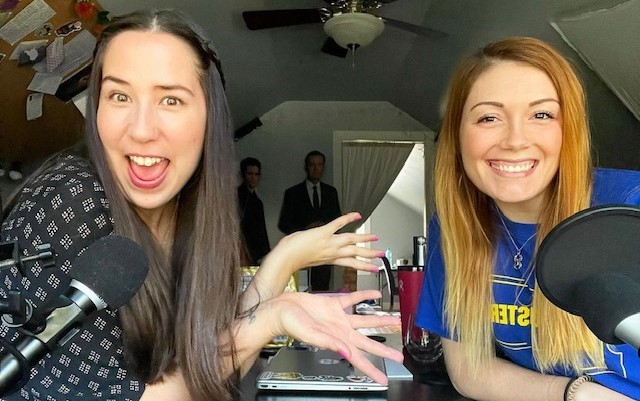
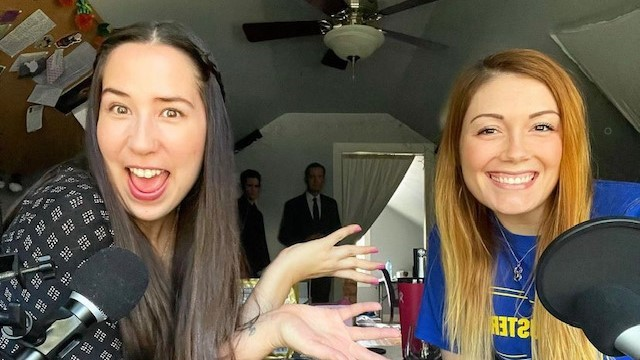
swapped images in slideshow, cleaned up sizing

diff --git a/public/assets/css/main.css b/public/assets/css/main.css
@@ -3551,7 +3551,7 @@ input, select, textarea {
 	}
 
 	.bioImage {
-		height: 300px;
+		height: 400px;
 		
 	}
 
@@ -3571,6 +3571,7 @@ input, select, textarea {
 
 	.slideshow {
 		width: 101%;
+		height: 150px;
 		overflow: hidden;
 		position: relative;
 
@@ -3578,35 +3579,47 @@ input, select, textarea {
 
 	.slideshow-wrapper {
 		display: flex;
-		width: 500%;
+		width: 1100%;
 		height: 100%;
 		position: relative;
-		animation: slideshow 20s infinite;
+		animation: slideshow 40s infinite;
 	}
 
 	.slide {
 		width: 100%;
-		height: 100%;
+		height: 150px;
 	}
 
 	.slide img {
 		width: 100%;
-		height: 100%;
+		height: 175px;
 		object-fit: cover;
 	}
 
 	@keyframes slideshow {
 		0%  { left: 0; }
-		12%  { left: 0; }
-		20% { left: -100%; }
-		32% { left: -100%; }
-		40% { left: -200%; }
-		52% { left: -200%; }
-		60% { left: -300%; }
-		72% { left: -300%; }
-		80% { left: -400%; }
-		92% { left: -400%; }
-		100% { left: 0%; }
+		4.5%  { left: 0%; }
+		9% { left: -100%; }
+		13.5% { left: -100%; }
+		18% { left: -200%; }
+		22.5% { left: -200%; }
+		27% { left: -300%; }
+		31.5% { left: -300%; }
+		36% { left: -400%; }
+		40.5% { left: -400%; }
+		45% { left: -500%; }
+		49.5% { left: -500%; }
+		54%  { left: -600%; }
+		58.5%  { left: -600%; }
+		63% { left: -700%; }
+		67.5% { left: -700%; }
+		72% { left: -800%; }
+		76.5% { left: -800%; }
+		81% { left: -900%; }
+		85.5% { left: -900%; }
+		90% { left: -1000%; }
+		94.5% { left: -1000%; }
+		100% { left: 0; }
 	}
 
 
@@ -3886,6 +3899,18 @@ input, select, textarea {
 			width: 75%;
 		}
 
+		.slideshow {
+			height: 550px; 
+		}
+
+		.slide {
+			height: 600px;
+		}
+
+		.slide img {
+			height: inherit;
+		}
+
 
 
 	}
@@ -3901,10 +3926,36 @@ input, select, textarea {
 			height: 475px
 		}
 
+		.slideshow {
+			height: 475px; 
+		}
+
+		.slide {
+			height: 475px;
+		}
+
+		.slide img {
+			height: inherit;
+		}
+
 	}
+
+
 	@media screen and (min-width: 1281px) and (max-width: 1679px){
 		#homeCaro {
 			height: 400px;
+		}
+
+		.slideshow {
+			height: 400px; 
+		}
+
+		.slide {
+			height: 450px;
+		}
+
+		.slide img {
+			height: inherit;
 		}
 	}
 
@@ -3915,7 +3966,19 @@ input, select, textarea {
 		}
 
 		#homeCaro {
-			height: 380px; 
+			height: 400px; 
+		}
+
+		.slideshow {
+			height: 400px;
+		}
+
+		.slide {
+			height: 400px;
+		}
+
+		.slide img {
+			height: inherit;
 		}
 
 
@@ -3928,7 +3991,19 @@ input, select, textarea {
 
 	@media screen and (min-width: 981px) and (max-width: 1279px){
 		#homeCaro {
-			height: 300px;
+			height: 400px;
+		}
+
+		.slideshow {
+			height: 400px;
+		}
+
+		.slide {
+			height: 400px;
+		}
+
+		.slide img {
+			height: inherit;
 		}
 	}
 
@@ -3942,9 +4017,23 @@ input, select, textarea {
 			height: 300px;
 		}
 
+		.slideshow {
+			height: 300px;
+		}
+
+		.slide {
+			height: 300px;
+		}
+
+		.slide img {
+			height: inherit;
+		}
+
 		#logo {
 			height: 250px;
 		}
+
+		
 
 	}
 
@@ -3955,8 +4044,21 @@ input, select, textarea {
 		}
 
 		#homeCaro {
-			height: 275px;
+			height: 300px;
 			width: 90%;
+		}
+
+		.slideshow {
+			height: 300px;
+		}
+
+		.slide {
+			height: 300px;
+		}
+
+
+		.slide img {
+			height: inherit;
 		}
 
 		#logo {
@@ -4104,8 +4206,20 @@ input, select, textarea {
 		}
 
 		#homeCaro {
-			height: 220px;
+			height: 300px;
 			width: 90%;
+		}
+
+		.slideshow {
+			height: 300px;
+		}
+
+		.slide {
+			height: 300px;
+		}
+
+		.slide img {
+			height: inherit;
 		}
 
 		#logo {
@@ -4256,6 +4370,18 @@ input, select, textarea {
 		#homeCaro {
 			height: 175px;
 			width: 90%;
+		}
+
+		.slideshow {
+			height: 200px;
+		}
+		
+		.slide {
+			height: 200px;
+		}
+
+		.slide img {
+			height: inherit;
 		}
 
 
@@ -4411,7 +4537,7 @@ input, select, textarea {
 		}
 
 		#homeCaro {
-			height: 100px;
+			height: 200px;
 			width: 90%;
 		}
 
@@ -4422,6 +4548,17 @@ input, select, textarea {
 			margin-top: 10%;
 			margin-bottom: 5%;
 		}
+
+		.slideshow {
+			height: 200px;
+		}
+		
+
+		.slide img {
+			height: 200px;
+		}
+
+		
 
 		.episode-listener-container {
 			border-radius: .5%;
@@ -4561,7 +4698,7 @@ input, select, textarea {
 
 	@media screen and (min-width: 375px) and (max-width: 429px) {
 		#homeCaro {
-			height: 125px;
+			height: 150px;
 		}
 
 		#logo {
